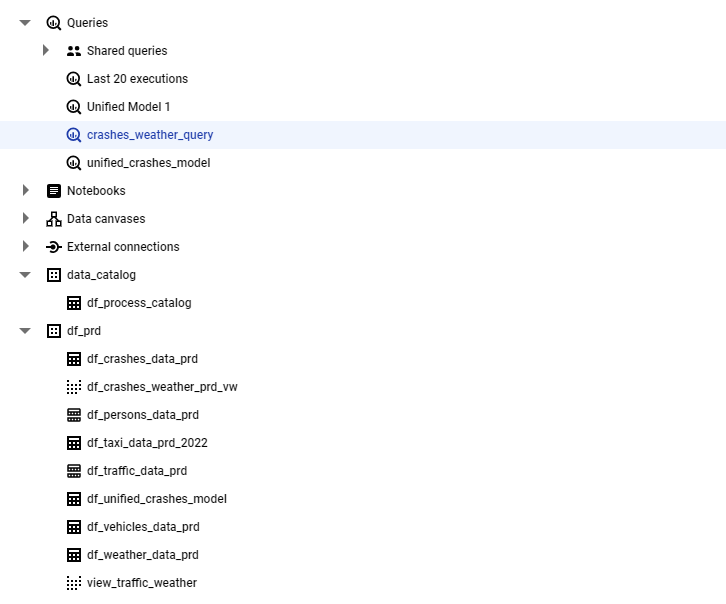
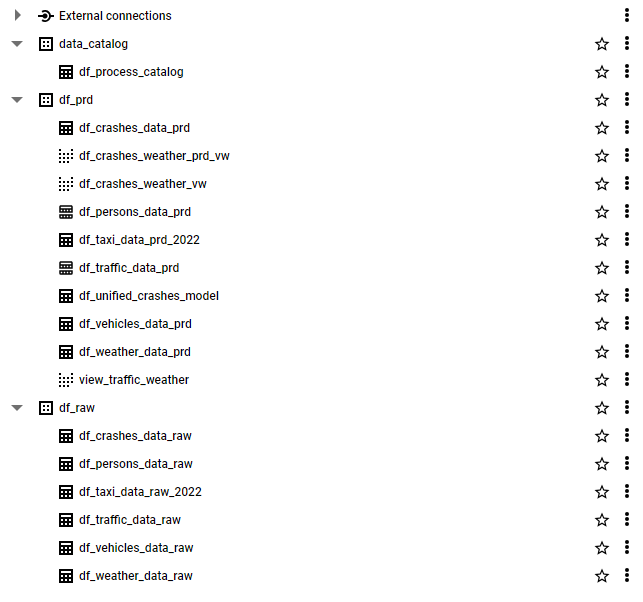
updating big query table structure in README

diff --git a/README.md b/README.md
@@ -220,9 +220,9 @@ We use BigQuery as our primary storage technology, chosen for its seamless integ
 |:--:|
 | Data Storage from Landing Zone (Pre-Processed) to Raw Zone (Processed) |
 
-![bigquery_tables](https://github.com/sagar8080/data-fusion-engineering/assets/74659975/b40667c9-0910-4c01-86de-e832df9ce6a1)
+![bigquery_tables](./screenshots/prod_tables.png)
 |:--:|
-| BigQuery Tables |
+| BigQuery Tables structured in raw and production datasets |
 
 ![unified model preview](./screenshots/unified_crash_model.png)
 |:--:|
